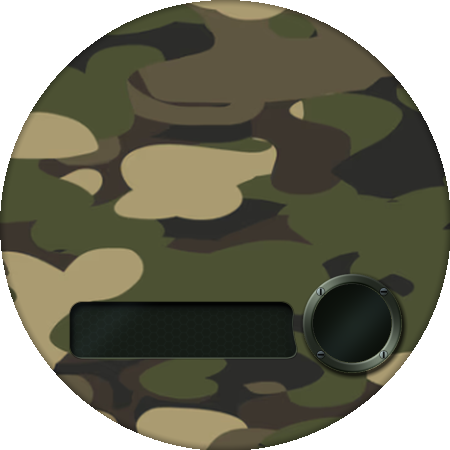
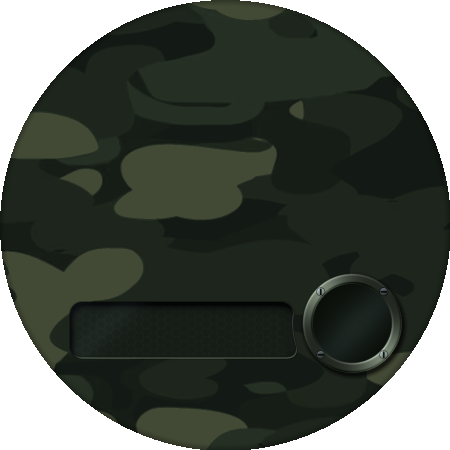
Release v5.4: restore carbon/mesh contrast and v5.1 camo colors on new pattern

diff --git a/generate_clean_backgrounds_and_quad_chambers.py b/generate_clean_backgrounds_and_quad_chambers.py
@@ -604,6 +604,13 @@ y1 = (h_src - ch) / 2.0
 camo_cropped = camo_src.crop((int(round(x1)), int(round(y1)), int(round(x1 + cw)), int(round(y1 + ch))))
 camo_resized = camo_cropped.resize((W, H), Image.Resampling.LANCZOS)
 arr_camo = np.array(camo_resized, dtype=float)
+# Keep current woodland camo pattern while restoring v5.1 dark tactical olive/forest palette
+src_pal = np.array([[43.8, 43.9, 41.7], [71.4, 73.1, 49.7], [94.8, 87.1, 65.4], [168.7, 153.9, 112.3]])
+dst_pal = np.array([[19.0, 25.0, 20.0], [27.0, 35.0, 26.0], [39.0, 49.0, 37.0], [67.0, 74.0, 53.0]])
+d2 = np.sum((arr_camo[:, :, np.newaxis, :] - src_pal[np.newaxis, np.newaxis, :, :]) ** 2, axis=-1)
+w_pal = np.exp(-d2 / (2.0 * 14.0 ** 2))
+w_pal /= np.maximum(w_pal.sum(axis=-1, keepdims=True), 1e-6)
+arr_camo = np.sum(w_pal[:, :, :, np.newaxis] * dst_pal[np.newaxis, np.newaxis, :, :], axis=2)
 vig_camo = np.array(vig_map).reshape((H, W))
 disc_camo = np.array(inside_disc).reshape((H, W))
 
@@ -795,7 +802,7 @@ for y in range(H):
             cf_val = twill[py + px] / 255.0
             con = conical_map[i]
             t = t_rad_map[i]
-            base = 18.0 + 16.0 * cf_val + 14.0 * con - 8.0 * t
+            base = (18.0 + 16.0 * cf_val + 14.0 * con - 8.0 * t) * 1.52
             vg = vig_map[i]
             rv = (base * 0.95) * vg
             gv = (base * 1.00) * vg
@@ -896,7 +903,7 @@ for y in range(H):
             d_hole = math.hypot(mx - m_pitch/2.0, my - m_pitch/2.0)
             hole_factor = max(0.0, min(1.0, (d_hole - 1.8 * scale) / 1.2))
             con = conical_map[i]
-            base = (14.0 + 18.0 * con) * (0.4 + 0.6 * hole_factor)
+            base = (16.0 + 24.0 * con) * (0.28 + 0.72 * hole_factor) * 1.48
             vg = vig_map[i]
             idx = i * 4
             mesh_bytes[idx]   = int(base * 0.92 * vg)
